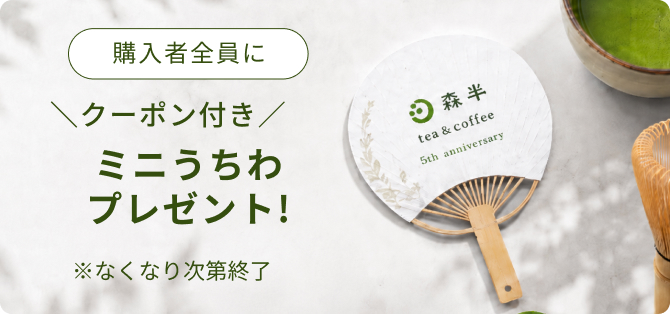
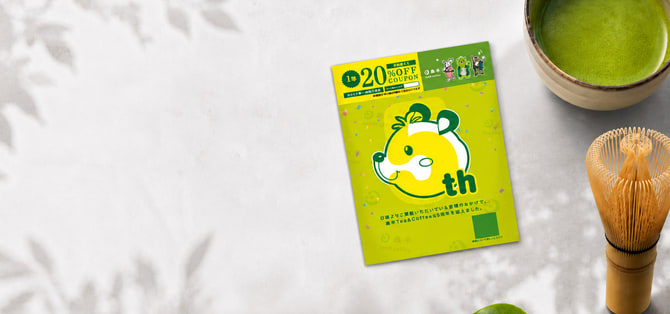
うちわバナーをクーポン台紙の写真に差し替え、文言をHTML化
- nav / PC左カラムの両方を新しいクーポン台紙のカットに差し替え。
  PC左はチケット型マスクで写真の一部しか見えないため、実際に見える窓
  (520x246 を x128..488 / y49..179) で構図を確認してから切り出した。
- 焼き込みだった文言を HTML テキストに。寸法・色は旧画像 (670x314 = 表示
  335x157) の実測で、色は抽出値 #354e0f が --color-heading と一致。
- 本体カラムは実機で 375〜390px 可変 = バナー 335〜350px。px 固定だと
  文字だけ取り残されて写真とズレるので、カンプ 335px の 1px を
  --u (100cqw / 335) に置いて全寸法をぶら下げた。
- 飛び先のない #campaign-uchiwa のリンクを解除。href なしの <a> は
  フォーカスもクリックもできないので <div> にした。campaign01〜04 の
  アンカーは実在するのでリンクのまま。
- PC左は aria-label が「なくなり次第終了」まで持っていたため、外すのに
  合わせて丸スタンプの aria-hidden も解除した。

Claude-Session: https://claude.ai/code/session_01CvKjDG6h9oxnrqgY1oxEca

diff --git a/src/styles/products/p-campaign-nav.css b/src/styles/products/p-campaign-nav.css
@@ -48,6 +48,79 @@
   transition: opacity var(--duration-hover) var(--easing-standard);
 }
 
-.p-campaign-nav__banner:hover {
+/* うちわバナーは飛び先がなく <div> で出るので、ホバーの反応も付けない */
+.p-campaign-nav__banner[href]:hover {
   opacity: 0.86;
+}
+
+/* -------------------------------------------------------------
+   うちわバナーだけは文字なしの写真を敷き、文言は HTML で載せる
+   （campaign01〜04 は見出しまで焼き込まれた支給画像のまま）。
+   本体カラムは 375〜390px 可変＝バナーは 335〜350px なので、px 固定だと
+   文字だけ取り残されて写真とズレる。カンプ 335px の 1px を --u に置いて
+   全寸法をぶら下げ、写真と一緒に伸縮させる。
+   寸法は現行の焼き込み画像（670x314 = 表示 335x157）の実測値。
+------------------------------------------------------------- */
+.p-campaign-nav__banner--uchiwa {
+  position: relative;
+  container-type: inline-size;
+}
+
+.p-campaign-nav__body {
+  /* cqw は「自分自身」ではなく祖先コンテナ基準で解決される。
+     コンテナ本体で宣言すると外側（≒ビューポート）を見てしまうので、子のここで持つ。 */
+  --u: 0.29851cqw; /* = 100cqw / 335 */
+
+  position: absolute;
+  inset-block: 0;
+  inset-inline-start: 0;
+  display: grid;
+  justify-items: center;
+  align-content: start;
+  width: calc(190 * var(--u));
+  padding-block-start: calc(15 * var(--u));
+  color: var(--color-heading);
+  font-family: var(--font-jp--sanserif);
+  line-height: 1;
+}
+
+.p-campaign-nav__pill {
+  display: grid;
+  place-items: center;
+  width: calc(122 * var(--u));
+  height: calc(23 * var(--u));
+  border: 1px solid currentColor;
+  border-radius: var(--radius-pill);
+  background-color: var(--color-surface);
+  font-size: calc(13 * var(--u));
+  font-weight: var(--fw-medium);
+  letter-spacing: 0.04em;
+  text-indent: 0.04em;
+}
+
+.p-campaign-nav__lead {
+  margin-block-start: calc(6 * var(--u));
+  font-size: calc(15 * var(--u));
+  font-weight: var(--fw-medium);
+  line-height: 1.4;
+}
+
+.p-campaign-nav__title {
+  margin-block-start: calc(6 * var(--u));
+  font-size: calc(20 * var(--u));
+  font-weight: var(--fw-bold);
+  line-height: 1.15;
+  text-align: center;
+  /* カンプは約物を詰めている（Figma の既定）。palt を当てないと「！」の前が空く */
+  font-feature-settings: 'palt' 1;
+}
+
+.p-campaign-nav__note {
+  margin-block-start: calc(14 * var(--u));
+  /* 11px はタイポスケール外だが、焼き込み画像の実測（9文字で 101.7px）がこの値。
+     画像だった頃と違って拡大に追従するので、小さくても読めなくなることはない。 */
+  font-size: calc(11 * var(--u));
+  font-weight: var(--fw-regular);
+  letter-spacing: 0.02em;
+  text-indent: 0.02em;
 }

diff --git a/src/data/campaign-banners.ts b/src/data/campaign-banners.ts
@@ -1,7 +1,9 @@
 /**
  * nav セクションのバナー一覧。
- * 支給画像（nav-image--*.jpg）は見出し・ピル・シェブロンまで焼き込まれた完成版なので、
- * 文言は alt で読み上げる。
+ * campaign01〜04 の支給画像（nav-image--*.jpg）は見出し・ピル・シェブロンまで
+ * 焼き込まれた完成版なので、文言は alt で読み上げる。
+ * uchiwa だけは文字なしの写真＋HTML テキストで組むため alt は空にしており、
+ * ここの alt は読み上げには使わない（文言の控えとして残す）。
  * nav.svg (viewBox 375x925) 実測:
  *   バナー幅 335 / 左右余白 20 / 縦の間隔 12 / 上 56 / 下 60（いずれも CSS px）
  *   高さ 157(うちわ・CP01・CP02) / 145(CP03・CP04)
@@ -9,7 +11,9 @@
 export const CAMPAIGN_BANNERS = [
   {
     id: 'uchiwa',
-    href: '#campaign-uchiwa',
+    // うちわには対応するセクションがない（#campaign-uchiwa は存在しない）。
+    // href なし = リンクにしない、というルールでテンプレート側が分岐する。
+    href: null,
     alt: '購入者全員に クーポン付きミニうちわプレゼント! ※なくなり次第終了',
   },
   {

diff --git a/src/styles/products/p-page-chrome.css b/src/styles/products/p-page-chrome.css
@@ -82,11 +82,6 @@
   margin-block-start: 54px;
   clip-path: var(--ticket-clip);
   background-color: var(--bg-banner-uchiwa);
-  transition: opacity var(--duration-hover) var(--easing-standard);
-}
-
-.p-chrome-left__banner:hover {
-  opacity: 0.86;
 }
 
 .p-chrome-left__banner-image {
